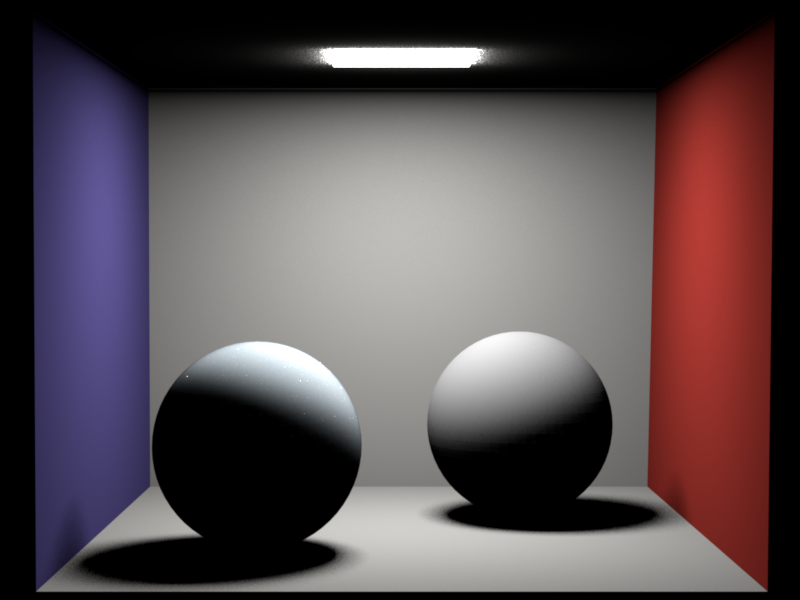
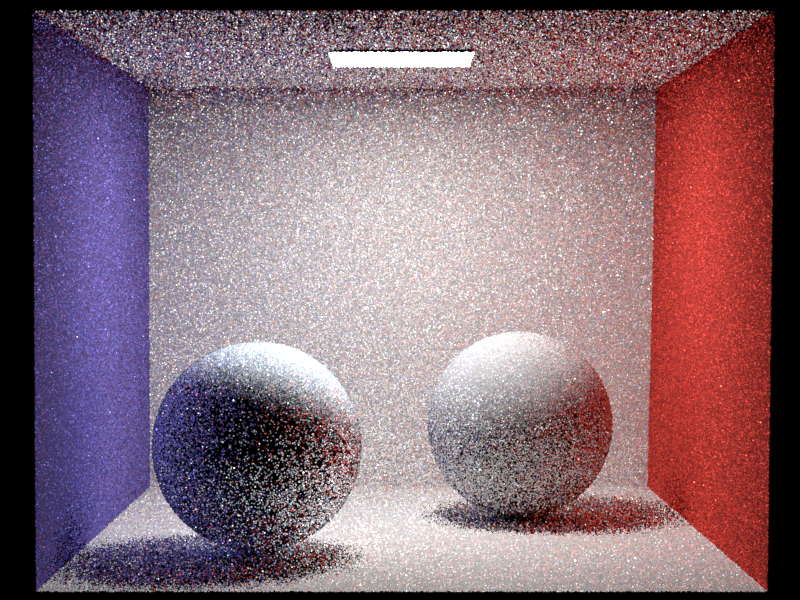
Added multipass rendering

diff --git a/src/main.cpp b/src/main.cpp
@@ -46,9 +46,12 @@ static void renderBlock(const Scene *scene, Sampler *sampler, ImageBlock &block)
     block.clear();
 
     /* For each pixel and pixel sample sample */
-    for (int y=0; y<size.y(); ++y) {
-        for (int x=0; x<size.x(); ++x) {
-            for (uint32_t i=0; i<sampler->getSampleCount(); ++i) {
+    for (int y=0; y<size.y(); ++y) 
+    {
+        for (int x=0; x<size.x(); ++x) 
+        {
+            for (uint32_t i=0; i<sampler->getSampleCount(); ++i) 
+            {
                 Point2f pixelSample = Point2f((float) (x + offset.x()), (float) (y + offset.y())) + sampler->next2D();
                 Point2f apertureSample = sampler->next2D();
 
@@ -71,9 +74,6 @@ static void render(Scene* scene, const std::string& filename, bool nogui) {
     Vector2i outputSize = camera->getOutputSize();
     scene->getIntegrator()->preprocess(scene, scene->getSampler());
 
-    /* Create a block generator (i.e. a work scheduler) */
-    BlockGenerator blockGenerator(outputSize, NORI_BLOCK_SIZE);
-
     /* Allocate memory for the entire output image and clear it */
     ImageBlock result(outputSize, camera->getReconstructionFilter());
     result.clear();
@@ -94,42 +94,54 @@ static void render(Scene* scene, const std::string& filename, bool nogui) {
 
         cout << "Rendering .. ";
         cout.flush();
-        Timer timer;
 
-        tbb::blocked_range<int> range(0, blockGenerator.getBlockCount());
+        Timer globalTimer;
 
-        auto map = [&](const tbb::blocked_range<int>& range) {
-            /* Allocate memory for a small image block to be rendered
-               by the current thread */
-            ImageBlock block(Vector2i(NORI_BLOCK_SIZE),
-                camera->getReconstructionFilter());
+        for (uint32_t i = 0; i < scene->getSampler()->nPasses(); i++)
+        {
+            Timer timer;
 
-            /* Create a clone of the sampler for the current thread */
-            std::unique_ptr<Sampler> sampler(scene->getSampler()->clone());
+            /* Create a block generator (i.e. a work scheduler) */
+            BlockGenerator blockGenerator(outputSize, NORI_BLOCK_SIZE);
 
-            for (int i = range.begin(); i < range.end(); ++i) {
-                /* Request an image block from the block generator */
-                blockGenerator.next(block);
+            tbb::blocked_range<int> range(0, blockGenerator.getBlockCount());
 
-                /* Inform the sampler about the block to be rendered */
-                sampler->prepare(block);
+            auto map = [&](const tbb::blocked_range<int>& range) {
+                /* Allocate memory for a small image block to be rendered
+                by the current thread */
+                ImageBlock block(Vector2i(NORI_BLOCK_SIZE),
+                    camera->getReconstructionFilter());
 
-                /* Render all contained pixels */
-                renderBlock(scene, sampler.get(), block);
+                /* Create a clone of the sampler for the current thread */
+                std::unique_ptr<Sampler> sampler(scene->getSampler()->clone());
 
-                /* The image block has been processed. Now add it to
-                   the "big" block that represents the entire image */
-                result.put(block);
-            }
-        };
+                for (int i = range.begin(); i < range.end(); ++i) {
+                    /* Request an image block from the block generator */
+                    blockGenerator.next(block);
 
-        /// Default: parallel rendering
-        tbb::parallel_for(range, map);
+                    /* Inform the sampler about the block to be rendered */
+                    sampler->prepare(block);
+
+                    /* Render all contained pixels */
+                    renderBlock(scene, sampler.get(), block);
+
+                    /* The image block has been processed. Now add it to
+                    the "big" block that represents the entire image */
+                    result.put(block);
+                }
+            };
+
+            /// Default: parallel rendering
+            tbb::parallel_for(range, map);
+            scene->getSampler()->next_pass();
+
+            std::cout << "Pass " << i << " done. (took " << timer.elapsedString() << ")" << std::endl;
+        }
 
         /// (equivalent to the following single-threaded call)
         // map(range);
 
-        cout << "done. (took " << timer.elapsedString() << ")" << endl;
+        cout << "done. (took " << globalTimer.elapsedString() << ")" << endl;
     });
 
     if (!nogui)

diff --git a/src/independent.cpp b/src/independent.cpp
@@ -23,19 +23,12 @@ class Independent : public Sampler {
 public:
     Independent(const PropertyList &propList) 
     {
-        int s1 = propList.getInteger("FirstPassSpp", -1);
-        int s2 = propList.getInteger("sampleCount", -1);
-
-        if (s1 != -1) {
-            m_sampleCount = (size_t)s1;
-        } else if (s2 != -1) {
-            m_sampleCount = (size_t)s2;
-        } else {
-            m_sampleCount = 1;
-        }
-
-        _weightedPassesCount = (size_t) propList.getInteger("WeightedPassesCount", 0);
-        weightedPassTotalSamples = (size_t) propList.getInteger("WeightedPassTotalSamples", 0);
+        m_sampleCount = propList.getInteger("sampleCount", 1);
+        _nPasses = propList.getInteger("nPasses", 1);
+        
+        // If there are several passes the first one will be only 1 sample
+        if (_nPasses > 1)
+            _nPasses++;
     }
 
     virtual ~Independent() { }
@@ -51,6 +44,11 @@ public:
         cloned->m_random = m_random;
         cloned->samplesPerPixel = samplesPerPixel;
         cloned->weightedPassTotalSamples = weightedPassTotalSamples;
+
+        cloned->currentPass = currentPass;
+        cloned->prevLuminance = prevLuminance;
+        cloned->mipMap = mipMap;
+        cloned->_nPasses = _nPasses;
 
         return cloned;
     }
@@ -147,9 +145,11 @@ public:
         file.close();
     }
 
-    void next_pass(const Bitmap *renderedImage) 
+    void next_pass() override
     { 
         currentPass++; 
+
+        /*
         samplesPerPixel.setZero();
 
         // Convert RGB to luminance
@@ -157,11 +157,22 @@ public:
         initializeWeightedSamples(image);
 
         prevLuminance = image;
+        */
     }
 
     /// Return the number of configured pixel samples
     size_t getSampleCount(Point2i pixel) const { return samplesPerPixel(pixel.x(), pixel.y()); }
-    size_t getSampleCount() const { return m_sampleCount; }
+    size_t getSampleCount() const 
+    { 
+        if (_nPasses == 1 || currentPass > 0)
+        {
+            return m_sampleCount;
+        }
+        else
+        {
+            return 1;
+        }
+    }
 
     float getSamplePdf(Point2i pixel) const
     {

diff --git a/src/stratified.cpp b/src/stratified.cpp
@@ -19,10 +19,13 @@ class Stratified : public Sampler {
 public:
     Stratified(const PropertyList &propList) 
     {
-        m_sampleCount = (size_t) propList.getInteger("FirstPassSpp", 1);
-        _weightedPassesCount = (size_t) propList.getInteger("WeightedPassesCount", 0);
-        weightedPassTotalSamples = (size_t) propList.getInteger("WeightedPassTotalSamples", 0);
+        m_sampleCount = propList.getInteger("sampleCount", 1);
+        _nPasses = propList.getInteger("nPasses", 1);
         nStrats = (size_t) propList.getInteger("stratsX", 2);        
+
+        // If there are several passes the first one will be only 1 sample
+        if (_nPasses > 1)
+            _nPasses++;
     }
 
     void _initialize(const Bitmap *initialImage) override
@@ -53,6 +56,11 @@ public:
 
         cloned->nStrats = nStrats;
         cloned->m_lastStrat = m_lastStrat;
+
+        cloned->currentPass = currentPass;
+        cloned->prevLuminance = prevLuminance;
+        cloned->mipMap = mipMap;
+        cloned->_nPasses = _nPasses;
 
         return cloned;
     }
@@ -153,9 +161,11 @@ public:
         }
     }
 
-    void next_pass(const Bitmap *renderedImage)  override
+    void next_pass()  override
     { 
         currentPass++; 
+        
+        /*
         samplesPerPixel.setZero();
 
         // Convert RGB to luminance
@@ -163,11 +173,22 @@ public:
         initializeWeightedSamples(image);
 
         prevLuminance = image;
+        */
     }
 
     /// Return the number of configured pixel samples
     size_t getSampleCount(Point2i pixel) const override { return samplesPerPixel(pixel.x(), pixel.y()); }
-    size_t getSampleCount() const override { return m_sampleCount; }
+    size_t getSampleCount() const override 
+    { 
+        if (_nPasses == 1 || currentPass > 0)
+        {
+            return m_sampleCount;
+        }
+        else
+        {
+            return 1;
+        }
+    }
 
     float getSamplePdf(Point2i pixel) const override
     {

diff --git a/include/nori/sampler.h b/include/nori/sampler.h
@@ -99,6 +99,8 @@ public:
 
     size_t weightedPassesCount() const { return _weightedPassesCount; }
 
+    uint32_t nPasses() const { return _nPasses; }
+
     virtual Point2f generatePixelOffset(Point2i pixelId) = 0; 
 
     // Number of samples to take on the pixel
@@ -107,7 +109,7 @@ public:
 
     virtual float getSamplePdf(Point2i pixel) const = 0;
 
-    virtual void next_pass(const Bitmap *renderedImage) = 0;
+    virtual void next_pass() = 0;
 
     /**
      * \brief Return the type of object (i.e. Mesh/Sampler/etc.) 
@@ -120,6 +122,7 @@ protected:
 
     size_t m_sampleCount;
     size_t _weightedPassesCount;
+    uint32_t _nPasses;
 
     //bool varianceInitialized = false;
     //Eigen::Array<float, 
